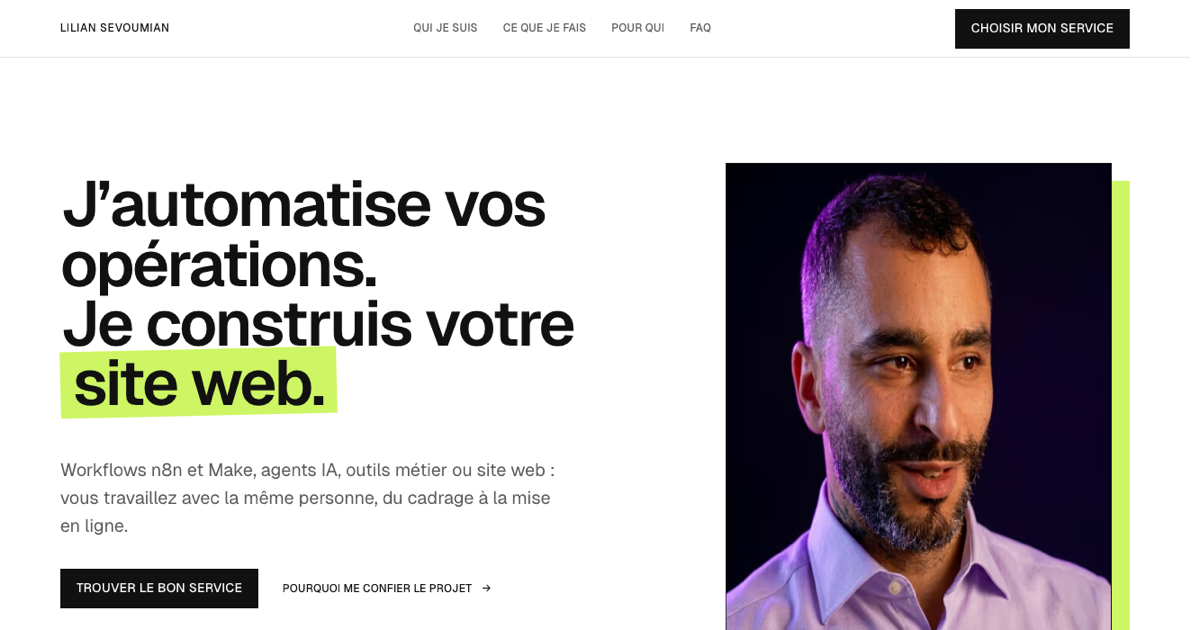
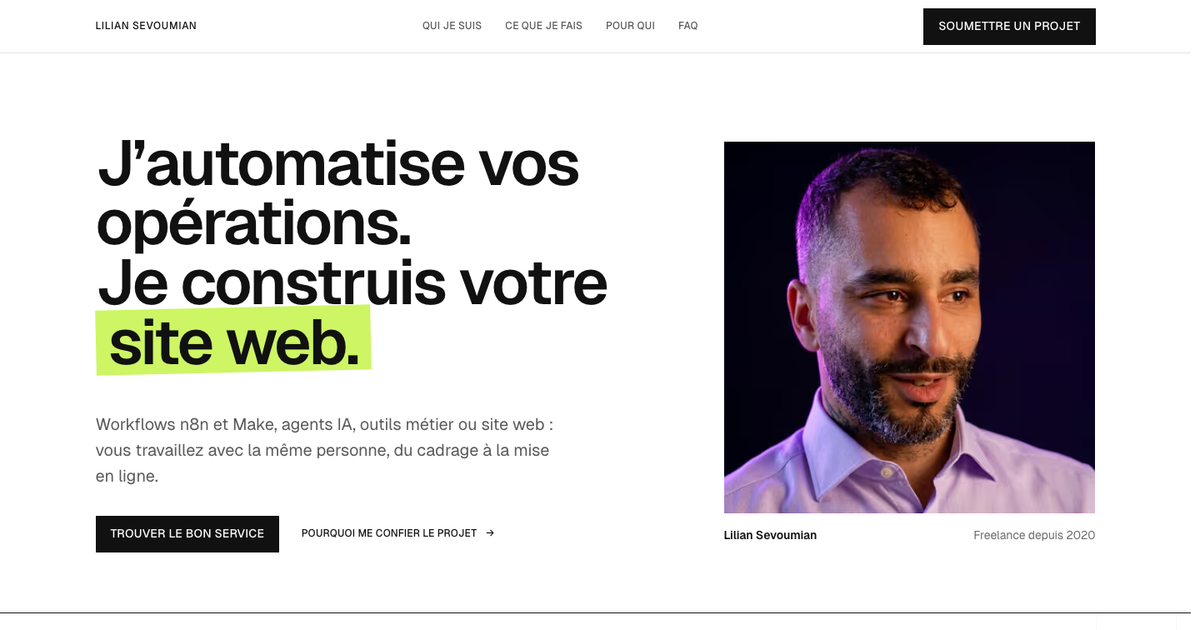
fix: appliquer les retours sur le layout de la home

diff --git a/src/styles/global.css b/src/styles/global.css
@@ -57,7 +57,10 @@
      home cessait d'être plus petit que le titre d'une page SEO (76 contre
      84 px). Vérifié : 3 lignes à 1440 px comme avant, aucun débordement. */
   --text-display-hero: clamp(3.25rem, 6vw + 1.2rem, 6.25rem);
-  --text-home-service: clamp(2.5rem, 4.2vw, 4.5rem);
+  --text-home-service: clamp(1.25rem, 8.6cqi, 2.75rem);
+  --spacing-home-hero-y: clamp(3rem, 5vw, 5rem);
+  --spacing-home-hero-gap: clamp(3rem, 5vw, 5rem);
+  --spacing-service-card: clamp(1.25rem, 3vw, 2.5rem);
   /* Le hero de l'offre web garde le plafond du manifeste tout en descendant à
      48 px sur iPhone : son fragment surligné reste ainsi dans la colonne sans
      rogner le dernier glyphe. La courbe vit ici, avec les autres rangs. */
@@ -1865,6 +1868,7 @@ h1 mark.inv::before { --angle: 1.1deg; }
   --color-focus: var(--color-lime);
 }
 
+.bloc-encre mark { color: #111111; }
 .bloc-encre mark::before { background: var(--color-lime); }
 .bloc-encre .btn-primary { background: var(--color-lime); color: #111111; }
 .bloc-encre .btn-primary:hover,
@@ -1928,3 +1932,42 @@ h1 mark.inv::before { --angle: 1.1deg; }
    des automatisations qui cassent. Le lien n'apparaissait qu'au survol, quand la
    couleur passe à l'encre : sur pointeur grossier, il n'apparaissait jamais. */
 .bloc-lime .lien-prose { border-bottom-color: #ffffff; }
+
+/* Un seul trait sous le lien entier, y compris l'espace avant sa flèche.
+   Le pseudo-élément évite les fragments produits par text-decoration sur flex. */
+.text-link-arrow {
+  position: relative;
+  display: inline-flex;
+  max-width: 100%;
+  min-height: 44px;
+  align-items: center;
+  gap: 0.65rem;
+  padding-block: 0.65rem;
+  color: var(--color-ink);
+  font-size: var(--text-body-sm);
+  font-weight: 600;
+  line-height: 1.5;
+  text-decoration: none;
+}
+
+.text-link-arrow::after {
+  content: '';
+  position: absolute;
+  inset-inline: 0;
+  bottom: 0.4rem;
+  height: 2px;
+  background: var(--color-lime);
+  transition: background-color var(--duration-default) var(--ease-out-quint);
+}
+
+.text-link-arrow > span:first-child { min-width: 0; }
+.text-link-arrow > [aria-hidden] {
+  flex-shrink: 0;
+  transition: transform var(--duration-default) var(--ease-out-quint);
+}
+.bloc-lime .text-link-arrow::after { background: #ffffff; }
+
+@media (hover: hover) and (pointer: fine) {
+  .text-link-arrow:hover::after { background: currentColor; }
+  .text-link-arrow:hover > [aria-hidden] { transform: translateX(0.2rem); }
+}

diff --git a/DESIGN.md b/DESIGN.md
@@ -34,9 +34,9 @@ typography:
     letterSpacing: "-0.035em"
   home-service:
     fontFamily: "Geist Variable, system-ui, -apple-system, sans-serif"
-    fontSize: "clamp(2.5rem, 4.2vw, 4.5rem)"
+    fontSize: "clamp(1.25rem, 8.6cqi, 2.75rem)"
     fontWeight: 600
-    lineHeight: 0.94
+    lineHeight: 1.05
     letterSpacing: "-0.035em"
   headline:
     fontFamily: "Geist Variable, system-ui, -apple-system, sans-serif"
@@ -252,10 +252,11 @@ Les titres de section descendent à `-0,035em` de chasse ; le plancher est
 
 **La home incarnée possède son rang de titre.** Son `h1` est visible et consomme
 `--text-home-hero`, une courbe unique de 52 à 84 px. Il fait face au portrait de
-Lilian sur un contrechamp lime, sans devenir aussi monumental que les manifestes
+Lilian, sans devenir aussi monumental que les manifestes
 des landings spécialisées. Plus bas, les deux titres du routeur consomment
-`--text-home-service`, une courbe unique de 40 à 72 px : le rang est partagé par
-**Automatisation & IA** et **Sites web**, sans hiérarchie entre les deux chemins.
+`--text-home-service`, une courbe de 20 à 44 px calculée sur la largeur disponible
+dans la carte. Le rang est partagé par **Automatisation & IA** et
+**Landing pages et applications métiers**, avec deux lignes explicites par titre.
 `--text-display-hero` reste le rang des landings spécialisées. Aucun de ces rôles
 ne commute de jeton au point de rupture.
 
@@ -404,10 +405,10 @@ chaque image, et se paie sur le seul geste que le visiteur fait en continu.
 ### La home personnelle et son routeur de services
 
 Le premier viewport présente d'abord la personne qui construit. Sur desktop,
-le titre direct occupe la gauche et le portrait de Lilian la droite, cadré dans
-un rectangle `4 / 5` au filet d'encre, avec un contrechamp lime décalé de
-`1,25rem`. Sur tablette, l'image passe sous le texte en `16 / 10` ; sur petit
-mobile elle devient `4 / 3`. L'action primaire descend vers `#services` : elle
+le titre direct occupe la gauche et le portrait de Lilian la droite. Le portrait
+est carré, sans bordure, ombre ou contrechamp ; son nom et son ancienneté figurent
+en légende. Sous 1024 px, l'image passe sous le texte et garde son ratio carré,
+avec une largeur maximale de 30 rem. L'action primaire descend vers `#services` : elle
 oriente sans faire du hero un comparateur ni y dupliquer les deux offres.
 
 La section suivante compacte la légitimité en deux colonnes : trajectoire et
@@ -415,11 +416,15 @@ méthode à gauche, quatre faits vérifiables à droite. Elle répond à « pour
 vous confier le projet ? » avant de demander au visiteur de choisir un service.
 
 Le choix arrive ensuite dans un routeur à deux surfaces de même poids : lime
-pour **Automatisation & IA**, papier pour **Sites web**. Chaque carte garde la
-même hauteur minimale, la même densité, le même rang typographique, une preuve
-courte et une seule destination — `/automatisations-ia` ou
-`/sites-web-abonnement` — sans lien imbriqué. Sur mobile, les deux colonnes
-deviennent deux rangées séparées par le même filet de 1 px.
+pour **Automatisation & IA**, papier pour **Landing pages et applications métiers**.
+Les cartes partagent six rangées via `subgrid` : besoin, titre, description,
+périmètre, preuve et action. Le conteneur de mesure typographique est le `h3`,
+dont les deux lignes consomment le jeton : le poser sur chaque carte empêcherait
+le partage des rangées de cette carte.
+Chaque carte garde une seule destination — `/automatisations-ia` ou
+`/sites-web-abonnement` — sans lien imbriqué. Sous 900 px, elles deviennent deux
+rangées séparées par le même filet de 1 px. Le texte web nomme les landing pages,
+dashboards, portails clients et applications métiers.
 
 Après ce routeur, une liste sur aplat encre aide les fondateurs et équipes Ops,
 les dirigeants de PME, puis les agences et studios à se reconnaître. La FAQ
@@ -434,6 +439,12 @@ bande qui penche, pas le `<mark>` : faire tourner l'élément inclinerait les
 lettres, or on veut un coup de surligneur de travers sur un texte droit.
 L'inclinaison alterne via une classe `.inv` posée à la main — `:nth-of-type` ne
 peut pas le faire, chaque `<mark>` étant seul dans son parent.
+
+Sur `.bloc-encre`, le texte du surlignage est explicitement sombre (`#111111`).
+Il ne doit pas hériter de `--color-ink`, remappé en blanc dans cette section.
+Les liens fléchés soulignés emploient `.text-link-arrow` : un seul pseudo-élément
+porte le trait continu sous le libellé, l'espace et la flèche. La cible conserve
+44 px de haut et le texte peut se répartir sur plusieurs lignes sur mobile.
 
 Contrainte dure : `white-space: nowrap`. Sur un fragment qui passe à la ligne, la
 bande couvre le rectangle englobant et produit un aplat informe. **Le fragment
@@ -579,7 +590,7 @@ ni Geist, ni aucune trace de ce système, et trois des anti-références de
 
 **La home possède sa vignette propre** (`public/og-home.png`, 1200 × 630) : elle
 reprend le premier viewport livré, avec le titre personnel à gauche, le portrait
-à droite et son contrechamp lime. Sa provenance visuelle reste attachée au code
+à droite sans contrechamp. Sa provenance visuelle reste attachée au code
 de `HomeHeroPersonal.astro` et au portrait source
 `src/assets/lilian-photo.jpg` ; elle ne réinterprète pas la home avec une
 composition de campagne parallèle.
